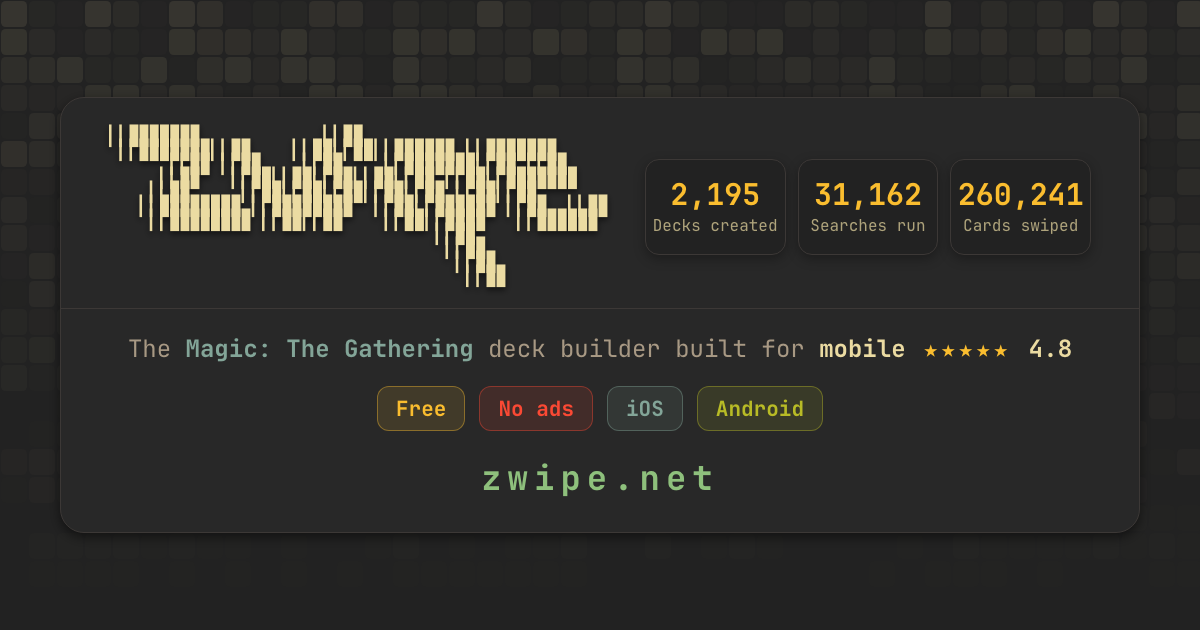
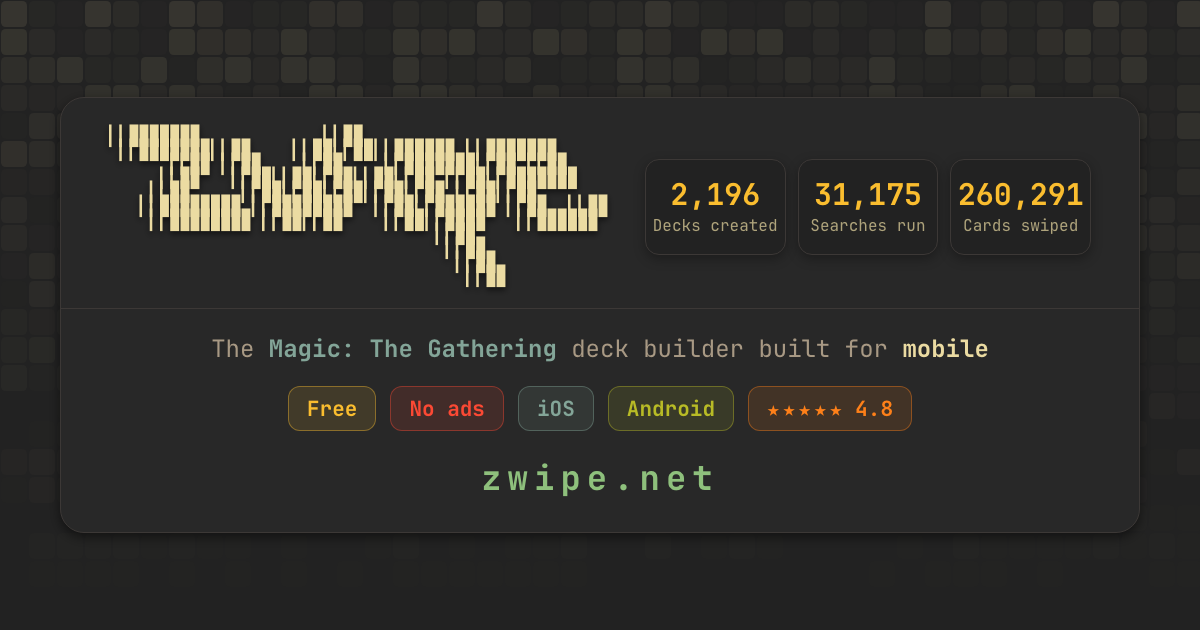
OG card: the rating joins the chips, numbers 2,196 / 31,175 / 260,291

diff --git a/context/marketing/og_default.html b/context/marketing/og_default.html
@@ -6,11 +6,12 @@
      Referenced by every page via zite's PageMeta as {WEB_BASE}/assets/og-default.png.
      zite's home hero as a card: the sites' backdrop of shaded 28px squares on a
      darkened --bg-sink (drawn by the script in the body), and on it one panel holding the Zwipe wordmark beside the three
-     public counters, a rule, the tagline with the rating, the chips and the
+     public counters, a rule, the tagline, the chips with the rating last, and the
      domain. Tokens are copied from orangui/assets/themes.css
      .theme-gruvbox-dark, and the colors play the roles zite gives them: the
-     counters and stars in palette-5, the tagline's link in palette-1, a bright
-     gruvbox color per chip (Free yellow, No ads red, iOS blue, Android green)
+     counters in palette-5, the tagline's link in palette-1, a bright
+     gruvbox color per chip (Free yellow, No ads red, iOS blue, Android green,
+     the rating orange)
      and the domain in palette-6 aqua. The counters are a snapshot of the
      live numbers at render time; refresh them when regenerating. The
      block-glyph wordmark needs the app's self-hosted JetBrains Mono (the CDN
@@ -49,6 +50,7 @@
   --green: #b8bb26;
   --blue: #83a598;
   --yellow: #fabd2f;
+  --orange: #fe8019;
   --shadow-sm: 0 4px 12px rgba(0, 0, 0, 0.3);
   --shadow-md: 0 4px 12px rgba(0, 0, 0, 0.5);
   --grid-line: rgba(235, 219, 162, 0.04);
@@ -150,8 +152,7 @@ body {
 }
 .link { color: var(--palette-1); font-weight: 700; }
 .hl { color: var(--text-primary); font-weight: 700; }
-.stars { color: var(--palette-5); font-weight: 700; letter-spacing: 3px; }
-.score { color: var(--text-primary); font-weight: 700; }
+.stars { letter-spacing: 3px; margin-right: 10px; }
 
 /* A bright gruvbox color per chip; the --c each sets is its text, tint and border. */
 .tags {
@@ -173,6 +174,7 @@ body {
 .tag-red { --c: var(--red); }
 .tag-blue { --c: var(--blue); }
 .tag-green { --c: var(--green); }
+.tag-orange { --c: var(--orange); }
 
 .site {
   margin-top: 24px;
@@ -223,22 +225,21 @@ body {
                                   ▎▎▉▉
                                    ▎▎▉▉</pre>
       <div class="stats">
-        <div class="stat"><span class="stat-num">2,195</span><span class="stat-label">Decks created</span></div>
-        <div class="stat"><span class="stat-num">31,162</span><span class="stat-label">Searches run</span></div>
-        <div class="stat"><span class="stat-num">260,241</span><span class="stat-label">Cards swiped</span></div>
+        <div class="stat"><span class="stat-num">2,196</span><span class="stat-label">Decks created</span></div>
+        <div class="stat"><span class="stat-num">31,175</span><span class="stat-label">Searches run</span></div>
+        <div class="stat"><span class="stat-num">260,291</span><span class="stat-label">Cards swiped</span></div>
       </div>
     </div>
     <hr class="rule" />
     <div class="tagline">
       <span>The <span class="link">Magic: The Gathering</span> deck builder built for <span class="hl">mobile</span></span>
-      <span class="stars">★★★★★</span>
-      <span class="score">4.8</span>
     </div>
     <div class="tags">
       <span class="tag tag-yellow">Free</span>
       <span class="tag tag-red">No ads</span>
       <span class="tag tag-blue">iOS</span>
       <span class="tag tag-green">Android</span>
+      <span class="tag tag-orange"><span class="stars">★★★★★</span>4.8</span>
     </div>
     <div class="site">zwipe.net</div>
   </div>
